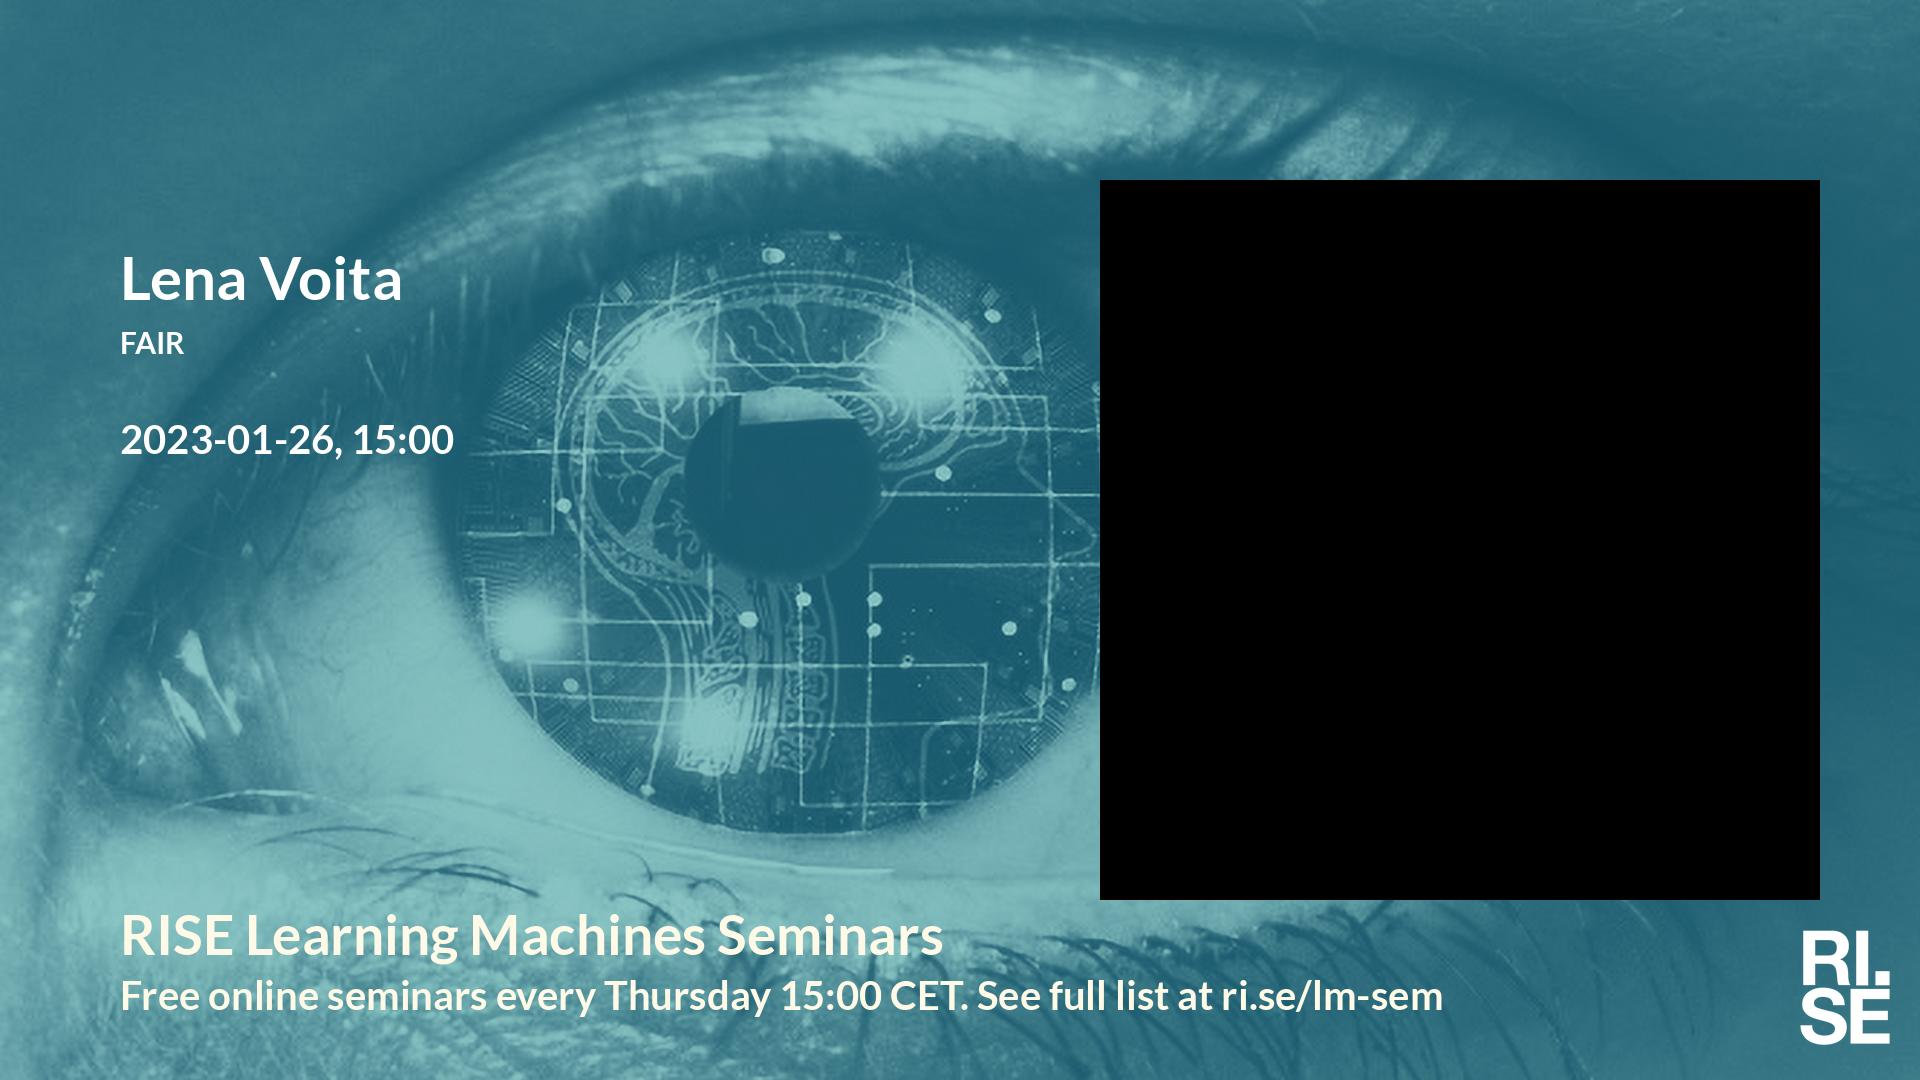
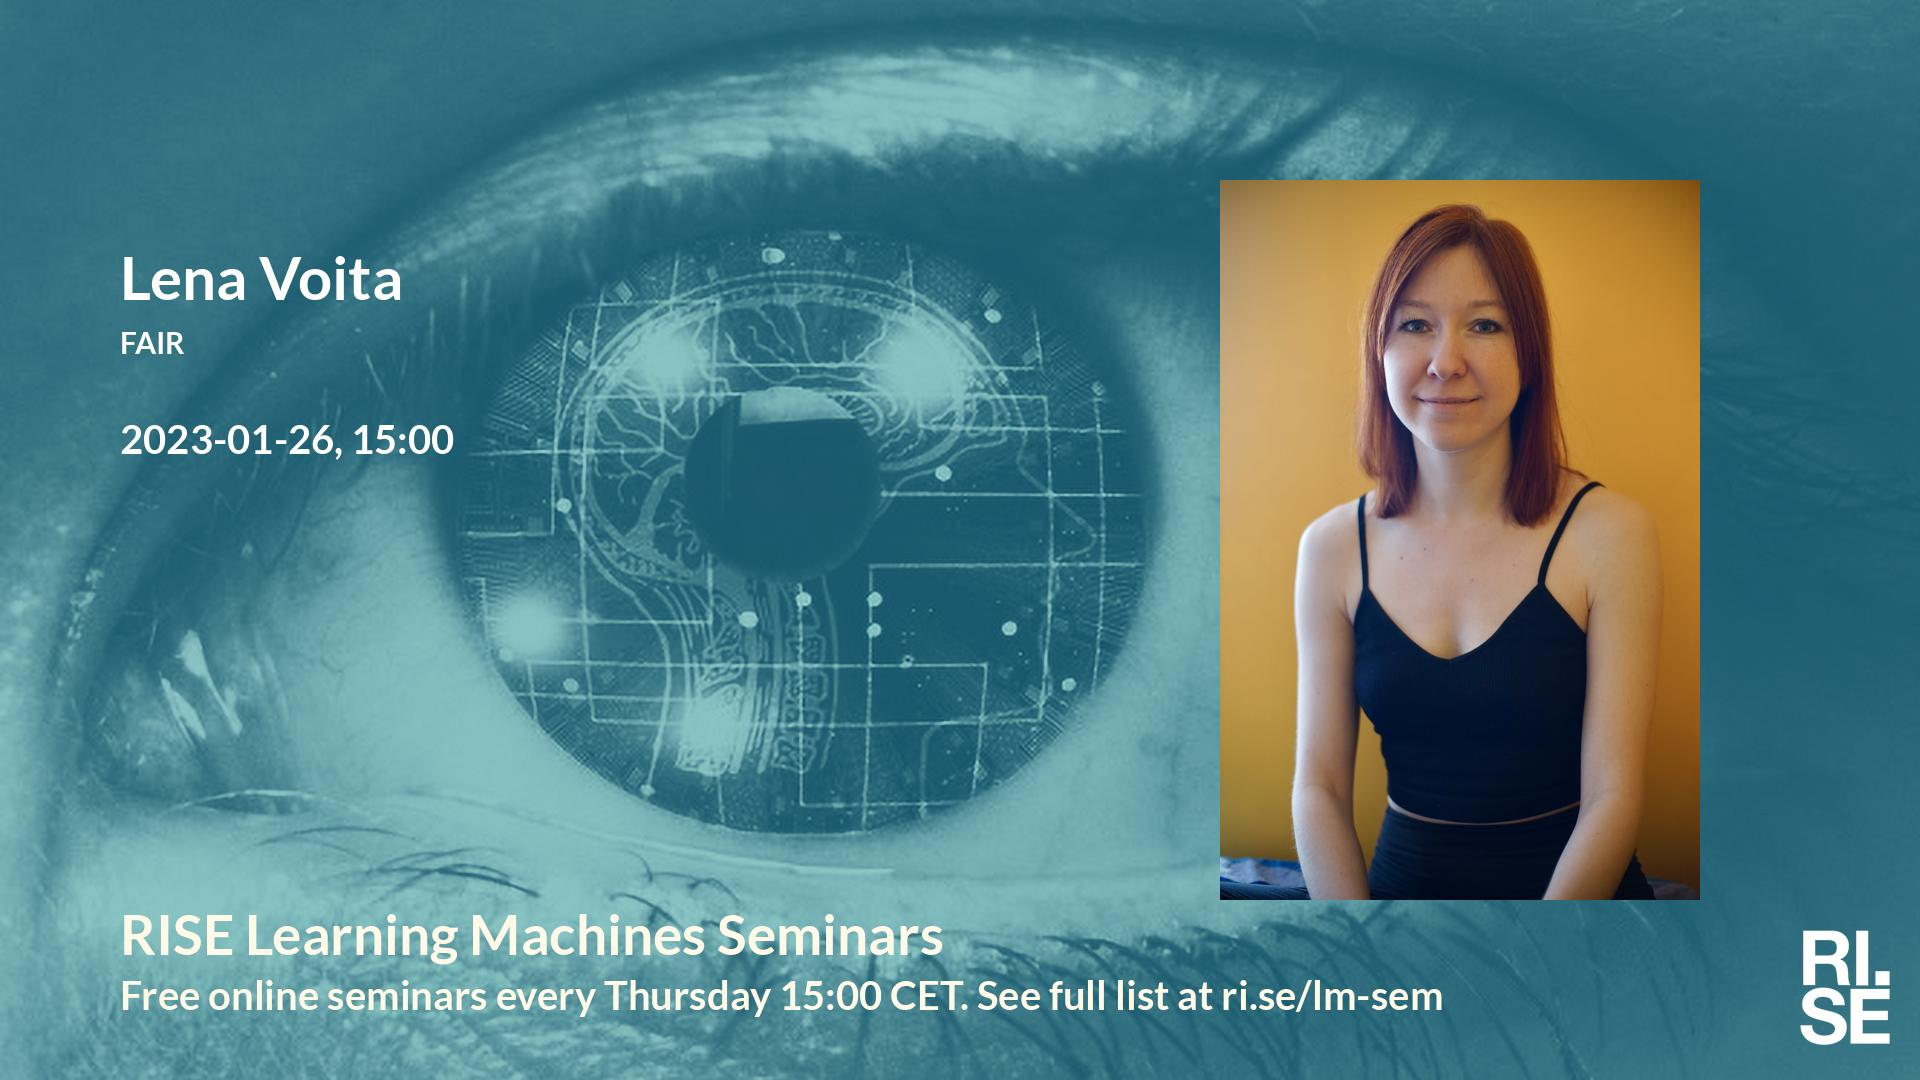
Updated plan on web site.

Changed region(s): [[0.5625, 0.1528, 0.9688, 0.8556]]

diff --git a/lm/index.md b/lm/index.md
@@ -13,7 +13,7 @@ table {border-collapse: collapse;}
 | <span style="color:red"> 2023-01-05 </span> | <span style="color:red"> Christmas </span> | <span style="color:red">  </span> | <span style="color:red">  </span> | <span style="color:red">  </span> | <span style="color:red">  </span> | <span style="color:red"> (cancelled) </span> |
 |  2023-01-12  |  [Mark D. Plumbley, University of Surrey](2023-01-12.md)  |  [photo](photo-mark-d.-plumbley.jpg)  |  [social media ](social-media-mark-d.-plumbley.jpg)  |  [meeting backdrop ](meeting-backdrop-mark-d.-plumbley.jpg)  |  [youtube thumbnail ](youtube-thumbnail-mark-d.-plumbley.jpg)  |  (confirmed)     |
 |  2023-01-19  |  [Giulia Fanti, Carnegie Mellon University](2023-01-19.md)  |  [photo](photo-giulia-fanti.jpg)  |  [social media ](social-media-giulia-fanti.jpg)  |  [meeting backdrop ](meeting-backdrop-giulia-fanti.jpg)  |  [youtube thumbnail ](youtube-thumbnail-giulia-fanti.jpg)  |  (confirmed)     |
-|  2023-01-26  |  [Lena Voita, FAIR](2023-01-26.md)  |    |  [social media ](social-media-lena-voita.jpg)  |  [meeting backdrop ](meeting-backdrop-lena-voita.jpg)  |  [youtube thumbnail ](youtube-thumbnail-lena-voita.jpg)  |  (confirmed)     |
+|  2023-01-26  |  [Lena Voita, FAIR](2023-01-26.md)  |  [photo](photo-lena-voita.jpg)  |  [social media ](social-media-lena-voita.jpg)  |  [meeting backdrop ](meeting-backdrop-lena-voita.jpg)  |  [youtube thumbnail ](youtube-thumbnail-lena-voita.jpg)  |  (confirmed)     |
 |  2023-02-02  |  [Vincent Szolnoky, Chalmers University of Technology](2023-02-02.md)  |  [photo](photo-vincent-szolnoky.png)  |  [social media ](social-media-vincent-szolnoky.jpg)  |  [meeting backdrop ](meeting-backdrop-vincent-szolnoky.jpg)  |  [youtube thumbnail ](youtube-thumbnail-vincent-szolnoky.jpg)  |  (confirmed)     |
 | <span style="color:grey"> 2023-02-09 </span> | <span style="color:grey"> Timnit G. ? </span> | <span style="color:grey">  </span> | <span style="color:grey">  </span> | <span style="color:grey">  </span> | <span style="color:grey">  </span> | <span style="color:grey"> (not confirmed) </span> |
 | <span style="color:red"> 2023-02-16 </span> | <span style="color:red"> Sportlov-GBG </span> | <span style="color:red">  </span> | <span style="color:red">  </span> | <span style="color:red">  </span> | <span style="color:red">  </span> | <span style="color:red"> (cancelled) </span> |
